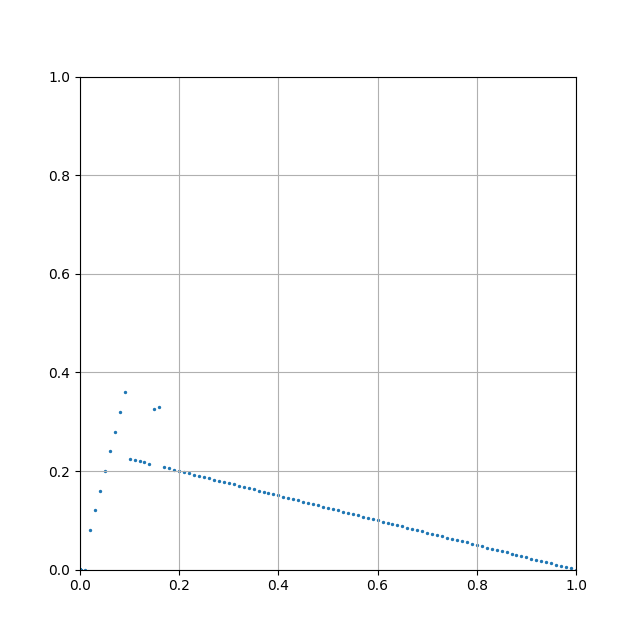
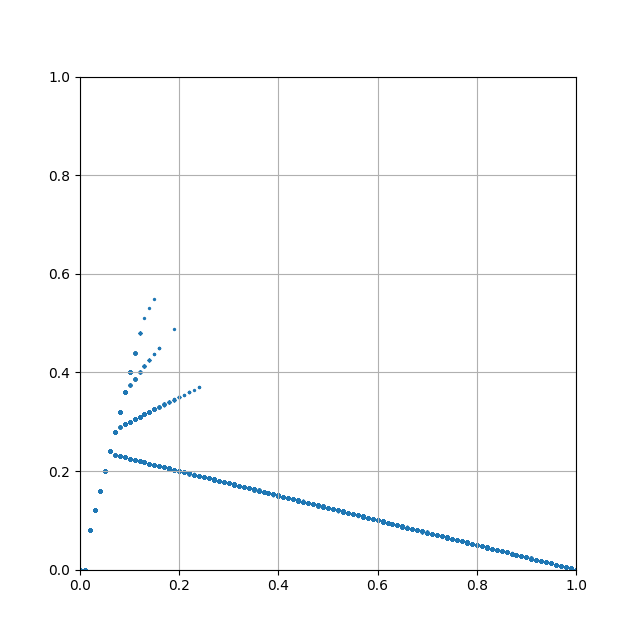
シミュレーションの整備

diff --git a/us2s_OV/fundamental_diagram.py b/us2s_OV/fundamental_diagram.py
@@ -4,19 +4,21 @@ import random
 import us2s_OV
 import numpy as np
 
+M = 1000  # 各密度についてシミュレーションする回数
+
 def main():
 	n_0 = 3    # monitoring period
 	x_0 = 1    # 最短車間距離
 	v_0 = 4    # 車両の最高速度
 
-	density = np.zeros(shape=(101 * 100))
-	flow    = np.zeros(shape=(101 * 100))
+	density = np.zeros(shape=((us2s_OV.K_MAX+1) * M))
+	flow    = np.zeros(shape=((us2s_OV.K_MAX+1) * M))
  
 	# 密度を変えて、複数の初期条件からflowを計算
 	id = 0  # 各シミュレーションに割り振る番号
 	for K in range(0, us2s_OV.K_MAX + 1):
-		for _ in range(1): # 各密度について100回ずつ計算
-			sys.stdout.write("\rK = {}, ({}/{})".format(K, _, 100))
+		for _ in range(M):
+			sys.stdout.write("\rK = {:3d}, ({:4d}/{:4d})".format(K, _+1, M))
 			sys.stdout.flush()
 			# 車両の初期位置をランダムに生成
 			x_init = sorted(random.sample([i for i in range(us2s_OV.L)], K))
